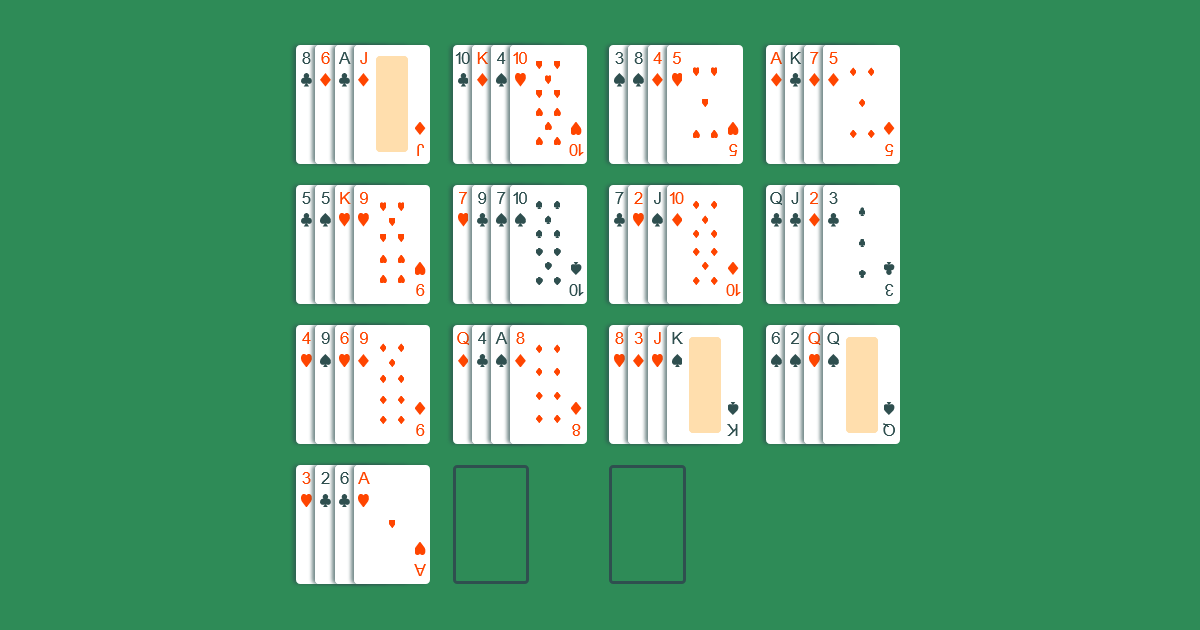
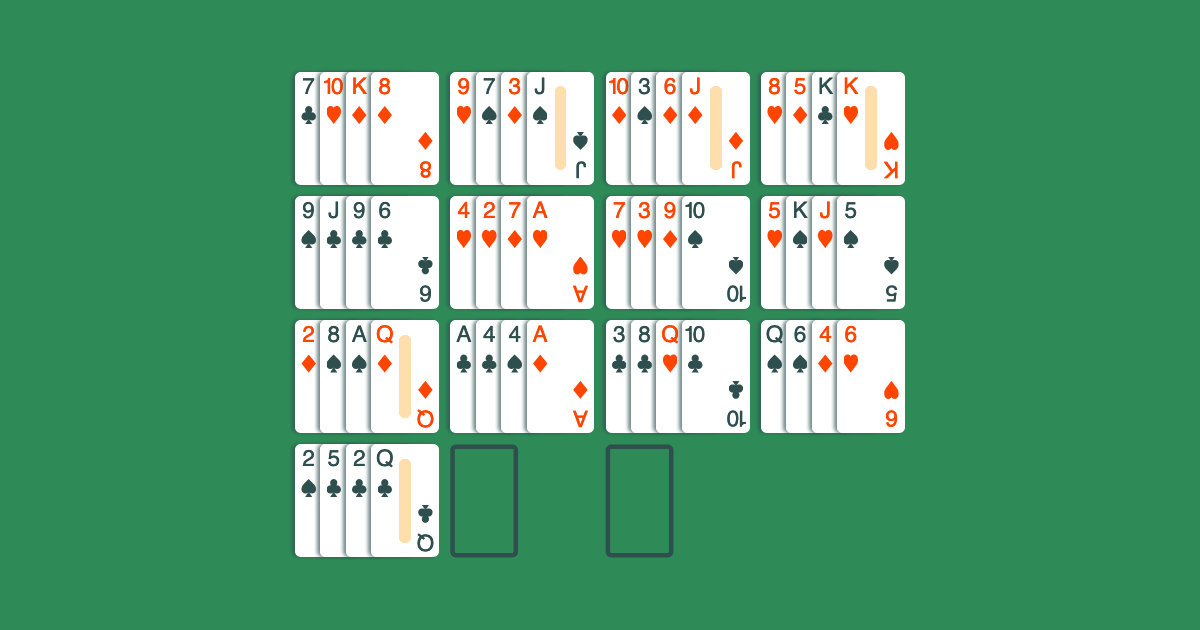
Fix alignment of 4x4 grid, use small card style in preview  (#113)

Changed region(s): [[0.2467, 0.0603, 0.7708, 0.9349]]

diff --git a/src/views/Pileon/Pileon.svelte b/src/views/Pileon/Pileon.svelte
@@ -19,7 +19,7 @@
     calculateDimensions,
     fillerStacks,
   } from "../../utils/pileon";
-  import { getStackDataTransfer } from "../../utils/stack";
+  import { getStackDataTransfer, stackWidthEm } from "../../utils/stack";
 
   import DeadEndModal from "./DeadEndModal.svelte";
   import PileonHelp from "./PileonHelp.svelte";
@@ -163,7 +163,7 @@
   style:width="{d.tableWidthEm * 1.25}em"
 >
   {#each piles as pile, index}
-    <div class="pile" class:small={size === "small"}>
+    <div class="pile">
       <Stack
         cards={pile}
         closed={donePiles.includes(index)}
@@ -178,7 +178,7 @@
     </div>
   {/each}
   {#each fillerStacks(mainWidth, innerHeight) as _}
-    <div class="pile" />
+    <div class="pile" style={`min-width: ${stackWidthEm(4, size)}em`} />
   {/each}
 </main>
 {#if helpOpen}
@@ -200,6 +200,7 @@
     align-items: center
     justify-content: center
     max-width: 100vw
+    column-gap: 0.5em
     row-gap: 0.5em
     margin: auto
 
@@ -208,9 +209,6 @@
 
   .pile
     flex-basis: 16.7% /* Just above 1/6 */
-
-    &.small
-      margin: 0.25em 0.333em
 
     @media (max-aspect-ratio: 4/3)
       flex-basis: 20.1% /* Just above 1/5 */
